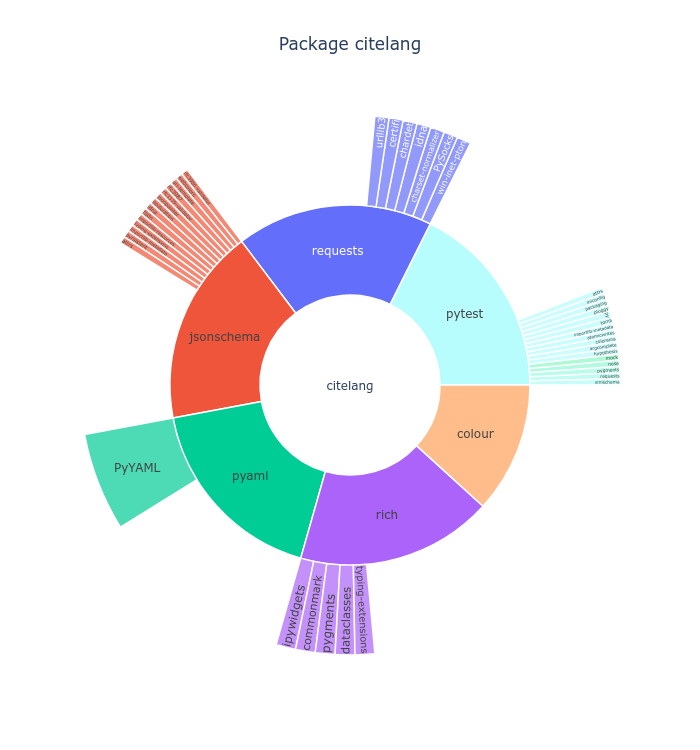
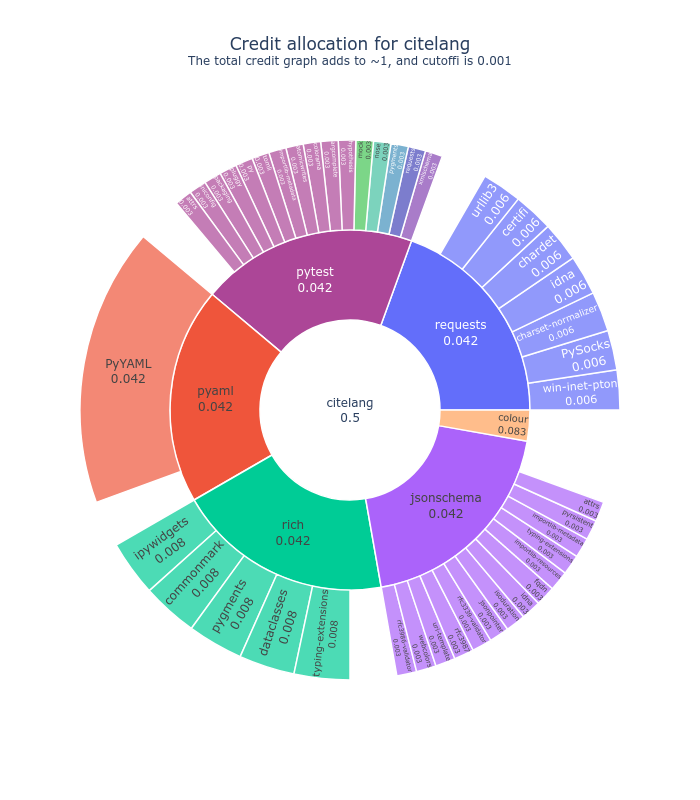
improving citelang static graphic
this will improve the static citelang graphic to explicitly show credit values and
some brief explanation that there is a credit min to include, and they add up to ~1

Changed region(s): [[0.09, 0.1533, 0.9, 0.8893], [0.27, 0.0307, 0.72, 0.092], [0.45, 0.4907, 0.54, 0.5213]]

diff --git a/citelang/main/badge/__init__.py b/citelang/main/badge/__init__.py
@@ -14,7 +14,7 @@ except ImportError:
     )
 
 
-def generate(data, outfile=None):
+def generate(data, outfile=None, min_credit=0.01, height=800):
     """
     Generate a static badge
     """
@@ -36,11 +36,15 @@ def generate(data, outfile=None):
     )
 
     layout = go.Layout(
-        title={"text": "Package " + data["name"], "x": 0.5},
+        title={
+            "text": "Credit allocation for %s<br><sup>The total credit graph adds to ~1, and cutoffi is %s</sup>"
+            % (data["name"], min_credit),
+            "x": 0.5,
+        },
         font={"size": 12},
         showlegend=False,
         autosize=False,
-        height=750,
+        height=height,
         xaxis={"visible": False},
         yaxis={"visible": False},
         hovermode="closest",
@@ -77,10 +81,13 @@ def unwrap_tree(tree_dict, labels=None, parents=None, values=None):
     labels = labels or []
     parents = parents or [""]
     values = values or []
-    labels.append(tree_dict["name"])
-    values.append(tree_dict["weight"])
-    last_node = tree_dict["name"]
+    node_name = "%s<br>%s" % (
+        tree_dict["name"],
+        round(tree_dict["credit"], tree_dict["round_by"]),
+    )
+    labels.append(node_name)
+    values.append(tree_dict["size"])
     for child in tree_dict.get("children"):
-        parents.append(last_node)
+        parents.append(node_name)
         unwrap_tree(child, labels, parents, values)
     return labels, parents, values

diff --git a/citelang/main/result.py b/citelang/main/result.py
@@ -341,9 +341,10 @@ class Badge(Tree):
 
         # Set root weight to 0 for correct render
         self.data["weight"] = 0
+        self.data["size"] = 0
 
         # Add an extra parent to the data (root) so the one child is requests
-        badge.generate(self.data, outfile)
+        badge.generate(self.data, outfile, min_credit=self.result.min_credit)
         logger.info("Result saved to %s" % outfile)
 
 

diff --git a/citelang/version.py b/citelang/version.py
@@ -2,7 +2,7 @@ __author__ = "Vanessa Sochat"
 __copyright__ = "Copyright 2022, Vanessa Sochat"
 __license__ = "MPL 2.0"
 
-__version__ = "0.0.15"
+__version__ = "0.0.16"
 AUTHOR = "Vanessa Sochat"
 EMAIL = "vsoch@users.noreply.github.com"
 NAME = "citelang"

diff --git a/CHANGELOG.md b/CHANGELOG.md
@@ -14,6 +14,7 @@ and **Merged pull requests**. Critical items to know are:
 The versions coincide with releases on pip. Only major versions will be released as tags on GitHub.
 
 ## [0.0.x](https://github.com/vsoch/citelang/tree/main) (0.0.x)
+ - improving layout of citelang graphic (0.0.16)
  - static badge added for software (0.0.15)
  - expanding interactive badge into treemap and sunburst (0.0.14)
  - adding basic citelang gen to create markdown files for repos (and actions) (0.0.13)
